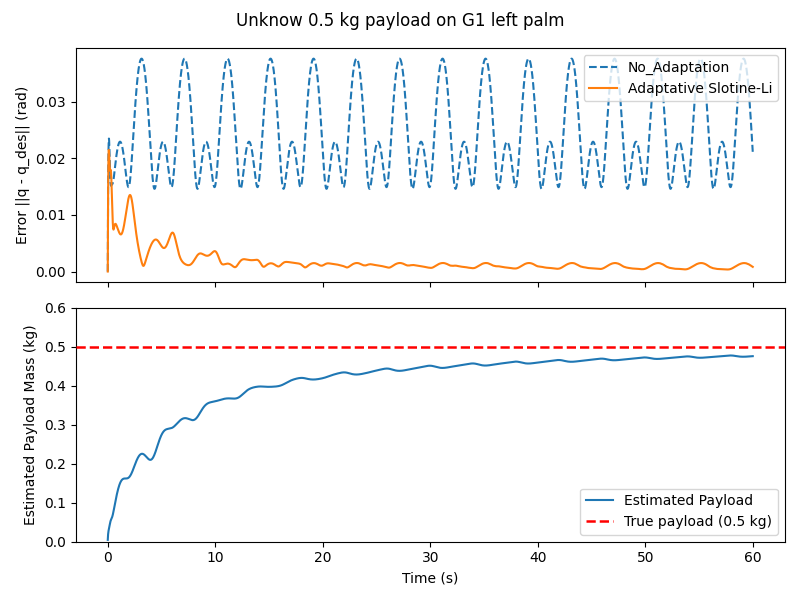
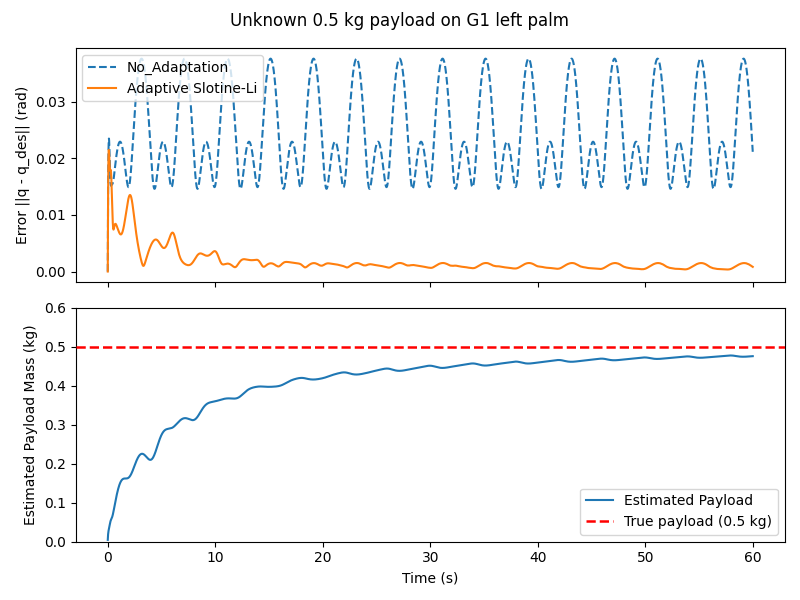
Add numpy to requirements and fix typos in payload-adaptation figure

Changed region(s): [[0.2812, 0.0, 0.7188, 0.06], [0.7188, 0.09, 0.9688, 0.18], [0.0938, 0.09, 0.3125, 0.18]]

diff --git a/experiments/payload_adaptation/plot_adaptation.py b/experiments/payload_adaptation/plot_adaptation.py
@@ -19,7 +19,7 @@ t = np.arange(len(e_fixed)) * dt
 fig, axes = plt.subplots(2, 1, sharex=True, figsize=(8, 6))
 
 axes[0].plot(t, e_fixed[:], linestyle='--', label="No_Adaptation")
-axes[0].plot(t, e_adapt[:], label="Adaptative Slotine-Li")
+axes[0].plot(t, e_adapt[:], label="Adaptive Slotine-Li")
 axes[0].set_ylabel("Error ||q - q_des|| (rad)")
 axes[0].legend()
 
@@ -31,7 +31,7 @@ axes[1].set_ylabel("Estimated Payload Mass (kg)")
 axes[1].set_xlabel("Time (s)")
 axes[1].legend()
 
-fig.suptitle("Unknow 0.5 kg payload on G1 left palm")
+fig.suptitle("Unknown 0.5 kg payload on G1 left palm")
 plt.tight_layout()
 FIG_DIR.mkdir(exist_ok=True)
 plt.savefig(FIG_DIR / "payload_adaptation.png")
